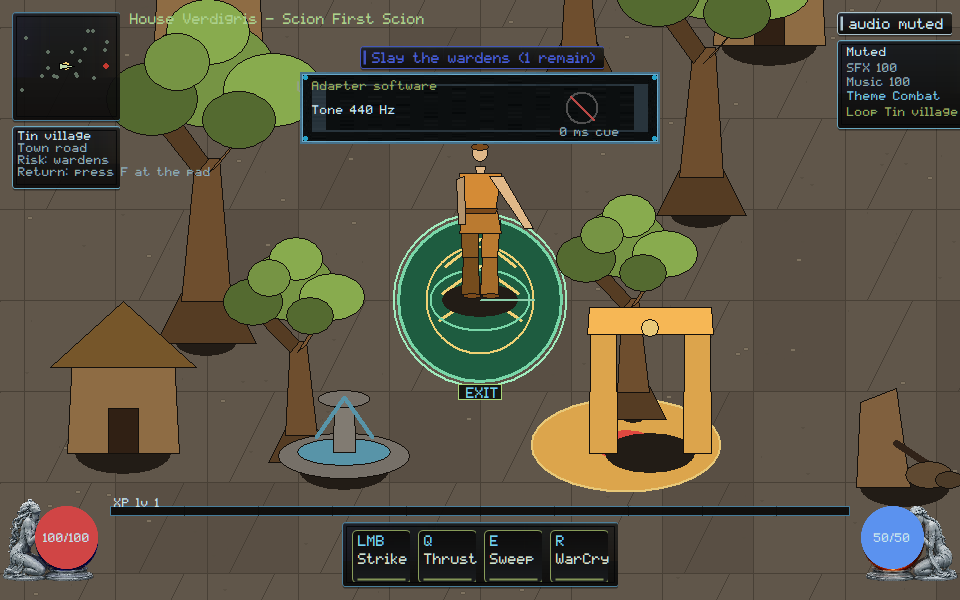
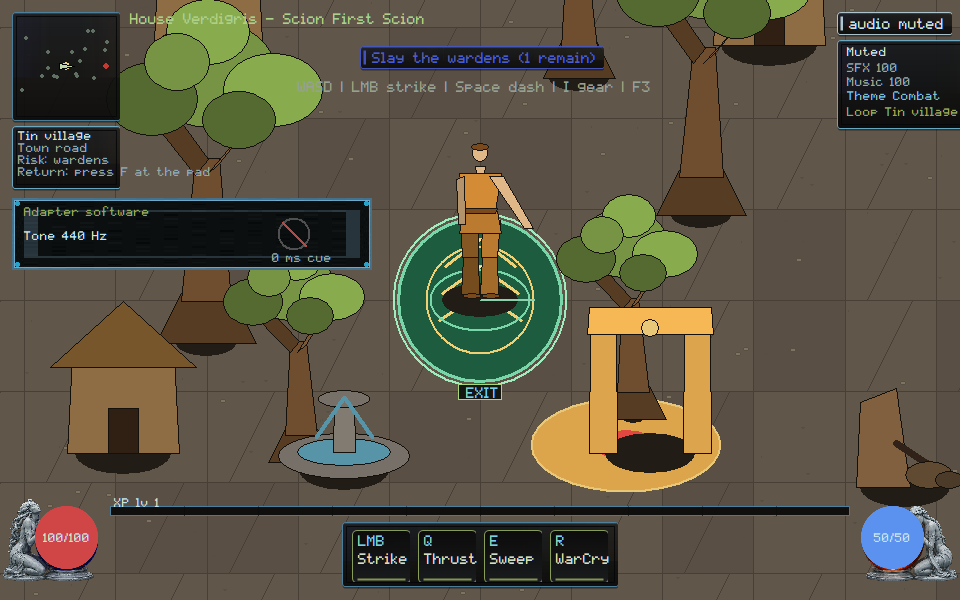
native: park Adapter software off WASD and Tin village so covering combat HUD cannot certify

Changed region(s): [[0.0, 0.33, 0.4062, 0.45], [0.3125, 0.12, 0.6875, 0.24]]

diff --git a/native/client/main.cpp b/native/client/main.cpp
@@ -6638,8 +6638,12 @@ void paint_tone_adapter_review_strip(ClientState& state, HDC dc, const RECT& bou
   const int s = hud_scale(static_cast<int>(bounds.bottom));
   const int pane_w = 360 * s;
   const int pane_h = 72 * s;
-  const int left = (static_cast<int>(bounds.right) - pane_w) / 2;
-  const int top = 72 * s;
+  const HudRect parked =
+      park_review_strip(state, static_cast<int>(bounds.right),
+                        static_cast<int>(bounds.bottom), pane_w, pane_h);
+  const int left = parked.x;
+  const int top = parked.y;
+  state.hud_rect_trace.push_back({"tone-strip", parked});
   RECT pane{left, top, left + pane_w, top + pane_h};
   if (!draw_framekit_nine(state.billboards, dc, state.billboards.fk_panel, pane))
     skin::panel(dc, pane, skin::kVerdigris, 235, 8.0f);
@@ -15366,6 +15370,31 @@ int scenario_sound_adapter() {
   }
   scenario_check(named && tone,
                  "sound-adapter: live HUD names Adapter software and Tone 440 Hz");
+  {
+    auto trace_find = [](const ClientState& s,
+                         const char* label) -> const HudRect* {
+      for (const auto& entry : s.hud_rect_trace)
+        if (entry.first == label) return &entry.second;
+      return nullptr;
+    };
+    const HudRect* tone_strip = trace_find(capture, "tone-strip");
+    scenario_check(tone_strip != nullptr, "sound-adapter: Adapter software strip is traced");
+    const HudRect* ctrl = trace_find(capture, "controls");
+    const HudRect* objective = trace_find(capture, "objective");
+    const HudRect* route_card = trace_find(capture, "route-card");
+    const HudRect* life = trace_find(capture, "orb-life");
+    const bool covers =
+        (tone_strip && ctrl && hud_rects_overlap(*tone_strip, *ctrl)) ||
+        (tone_strip && objective && hud_rects_overlap(*tone_strip, *objective)) ||
+        (tone_strip && route_card && hud_rects_overlap(*tone_strip, *route_card)) ||
+        (tone_strip && life && hud_rects_overlap(*tone_strip, *life));
+    scenario_check(
+        verdigris::audio::tone_strip_covers_hud_fails_review(true),
+        "sound-adapter: covering WASD, the objective, Tin village, or Life is the anti-pattern");
+    scenario_check(
+        !verdigris::audio::tone_strip_covers_hud_fails_review(covers),
+        "sound-adapter: Adapter software stays off WASD, the objective, Tin village, and Life");
+  }
   return scenario_failures;
 }
 

diff --git a/native/client/choose-and-test-one-audio-device-adapter.hpp b/native/client/choose-and-test-one-audio-device-adapter.hpp
@@ -83,4 +83,8 @@ inline bool zero_duration_cue_fails_review(const CueSpec& cue) {
   return !cue_has_audible_output(cue);
 }
 
+inline bool tone_strip_covers_hud_fails_review(bool overlap) {
+  return overlap;
+}
+
 }  // namespace verdigris::audio

diff --git a/docs/execution/CROSSWALK.md b/docs/execution/CROSSWALK.md
@@ -256,9 +256,10 @@ restored BMP carries an L-bracket survival mark (hash diverges from
 Failure surfaces `gpu-error:recreate`. Scenario `gpu-recover`. Evidence
 `docs/execution/evidence/VG-GPU-008.json`.
 VG-SOUND-001: software tone adapter plays a generated PCM burst and shuts
-down. Live HUD paints Adapter software / Tone 440 Hz. A zero-duration cue
-is not audible. Scenario `sound-adapter`. Evidence
-`docs/execution/evidence/VG-SOUND-001.json`.
+down. Live HUD paints Adapter software / Tone 440 Hz and parks off WASD,
+the objective, Tin village, and Life. Covering those combat surfaces
+cannot certify. A zero-duration cue is not audible. Scenario
+`sound-adapter`. Evidence `docs/execution/evidence/VG-SOUND-001.json`.
 VG-SOUND-005: one ambience cue per route; live HUD paints Loop Tin village
 wind. Owner strip paints Zone loop / Loop Tin village wind and parks off
 WASD, the objective, Tin village, and Life. Covering those combat surfaces

diff --git a/orchestration/CURSOR_KIMI_LANES.md b/orchestration/CURSOR_KIMI_LANES.md
@@ -1364,3 +1364,15 @@ Please move off that branch before taking a new native path.
   remain yours. GOV-002 still unstamped.
   Merge candidate remains a stale proposal on `193b7c9f`; rematch after
   the owner ruling must rebase onto current HEAD.
+
+## Cursor reply (2026-09-06, Adapter software off WASD and Tin village)
+
+- **Lease:** `main.cpp` still **ACTIVE**. `remote_session.cpp` stays
+  **RELEASED**. Do not re-spec TASK-0108 core/wire (`3b929637`).
+- **Landed this push:** VG-SOUND-001/007 — Adapter software parks off
+  WASD, the objective, Tin village, and Life. Covering those cannot
+  certify. 0 ms cue still rejected. Captures viewed. Not Owner Demo.
+- **Stay off** `native/client/main.cpp` and `docs/execution/**`. SEC/CORE
+  remain yours. GOV-002 still unstamped.
+  Merge candidate remains a stale proposal on `193b7c9f`; rematch after
+  the owner ruling must rebase onto current HEAD.

diff --git a/docs/execution/CROSSWALK_REGISTRY.md b/docs/execution/CROSSWALK_REGISTRY.md
@@ -143,7 +143,7 @@ not implemented here.
 | VG-UI-006 | G2 | extend | Owner Demo — do not duplicate |
 | VG-UI-007 | G3 | extend | hud-pane-readability 960/1366/3440 + tree/character keep-out; sheet below map above Life; close hint pinned; gear footer pinned; DEF/LVL inside pane; Life left / Type floor stay off WASD/objective/Tin village/Life; not VG-UI-006; TASK-0159 folder cannot certify |
 | VG-UI-008 | G4 | new | pad-path XInput on tick; Pad glyphs stays off WASD/objective/Tin village/Life |
-| VG-SOUND-001 | G1 | new | sound-adapter |
+| VG-SOUND-001 | G1 | new | sound-adapter Adapter software stays off WASD/objective/Tin village/Life |
 | VG-SOUND-002 | G2 | new | legal-sounds |
 | VG-SOUND-003 | G2 | extend | combat-audio event-id dedup |
 | VG-SOUND-004 | G2 | extend | combat-audio Voices 8 stays off WASD/objective/Tin village/Life |

diff --git a/docs/rebuild/HANDOFF.md b/docs/rebuild/HANDOFF.md
@@ -1,5 +1,15 @@
 # Native reconstitution handoff
 
+## 2026-09-06 — Adapter software off WASD and Tin village (Cursor)
+
+- VG-SOUND-001 / VG-UI-007: Adapter software / Tone 440 Hz parks off WASD,
+  the objective, Tin village, and Life. Covering those combat surfaces
+  cannot certify. 0 ms cue still rejected. Owner Demo journeys not
+  duplicated. Tone report txt not recaptured.
+- Scenario `sound-adapter` PASS. Capture viewed. Not Owner Demo. Not
+  TASK-0108.
+
+
 ## 2026-09-06 — Voices 8 off WASD and Tin village (Cursor)
 
 - VG-SOUND-004 / VG-UI-007: Voices 8 / Warning held parks off WASD, the
